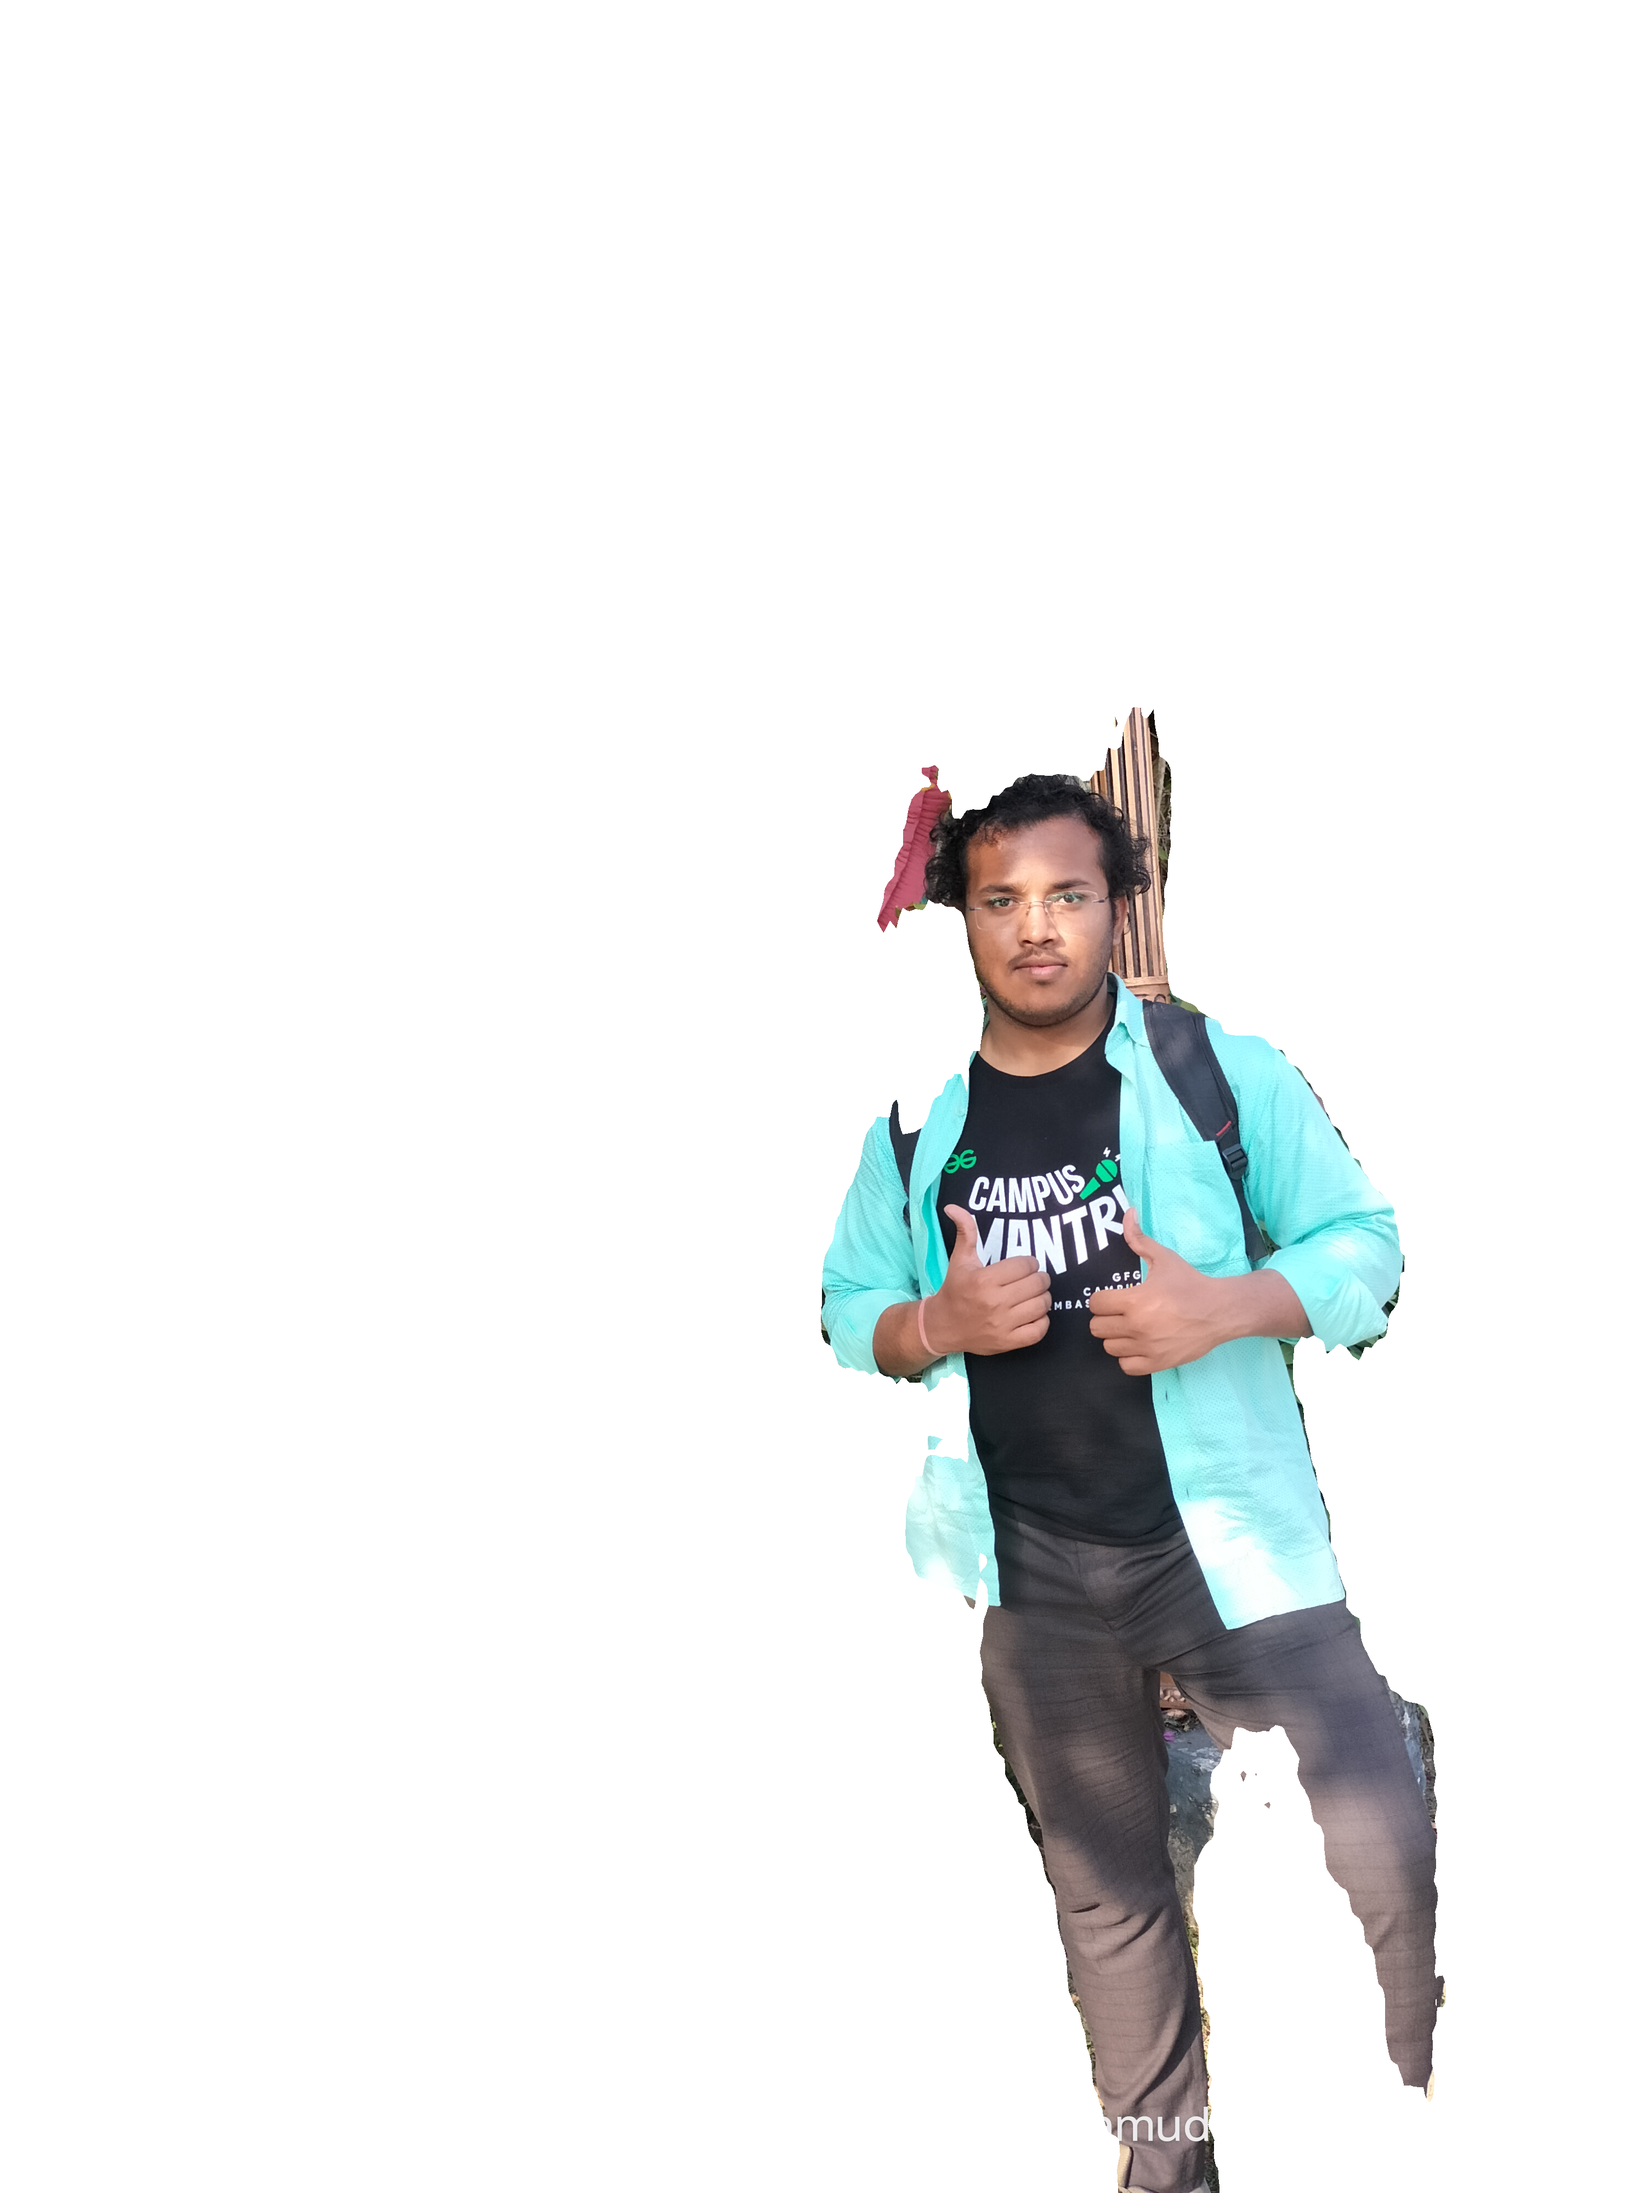
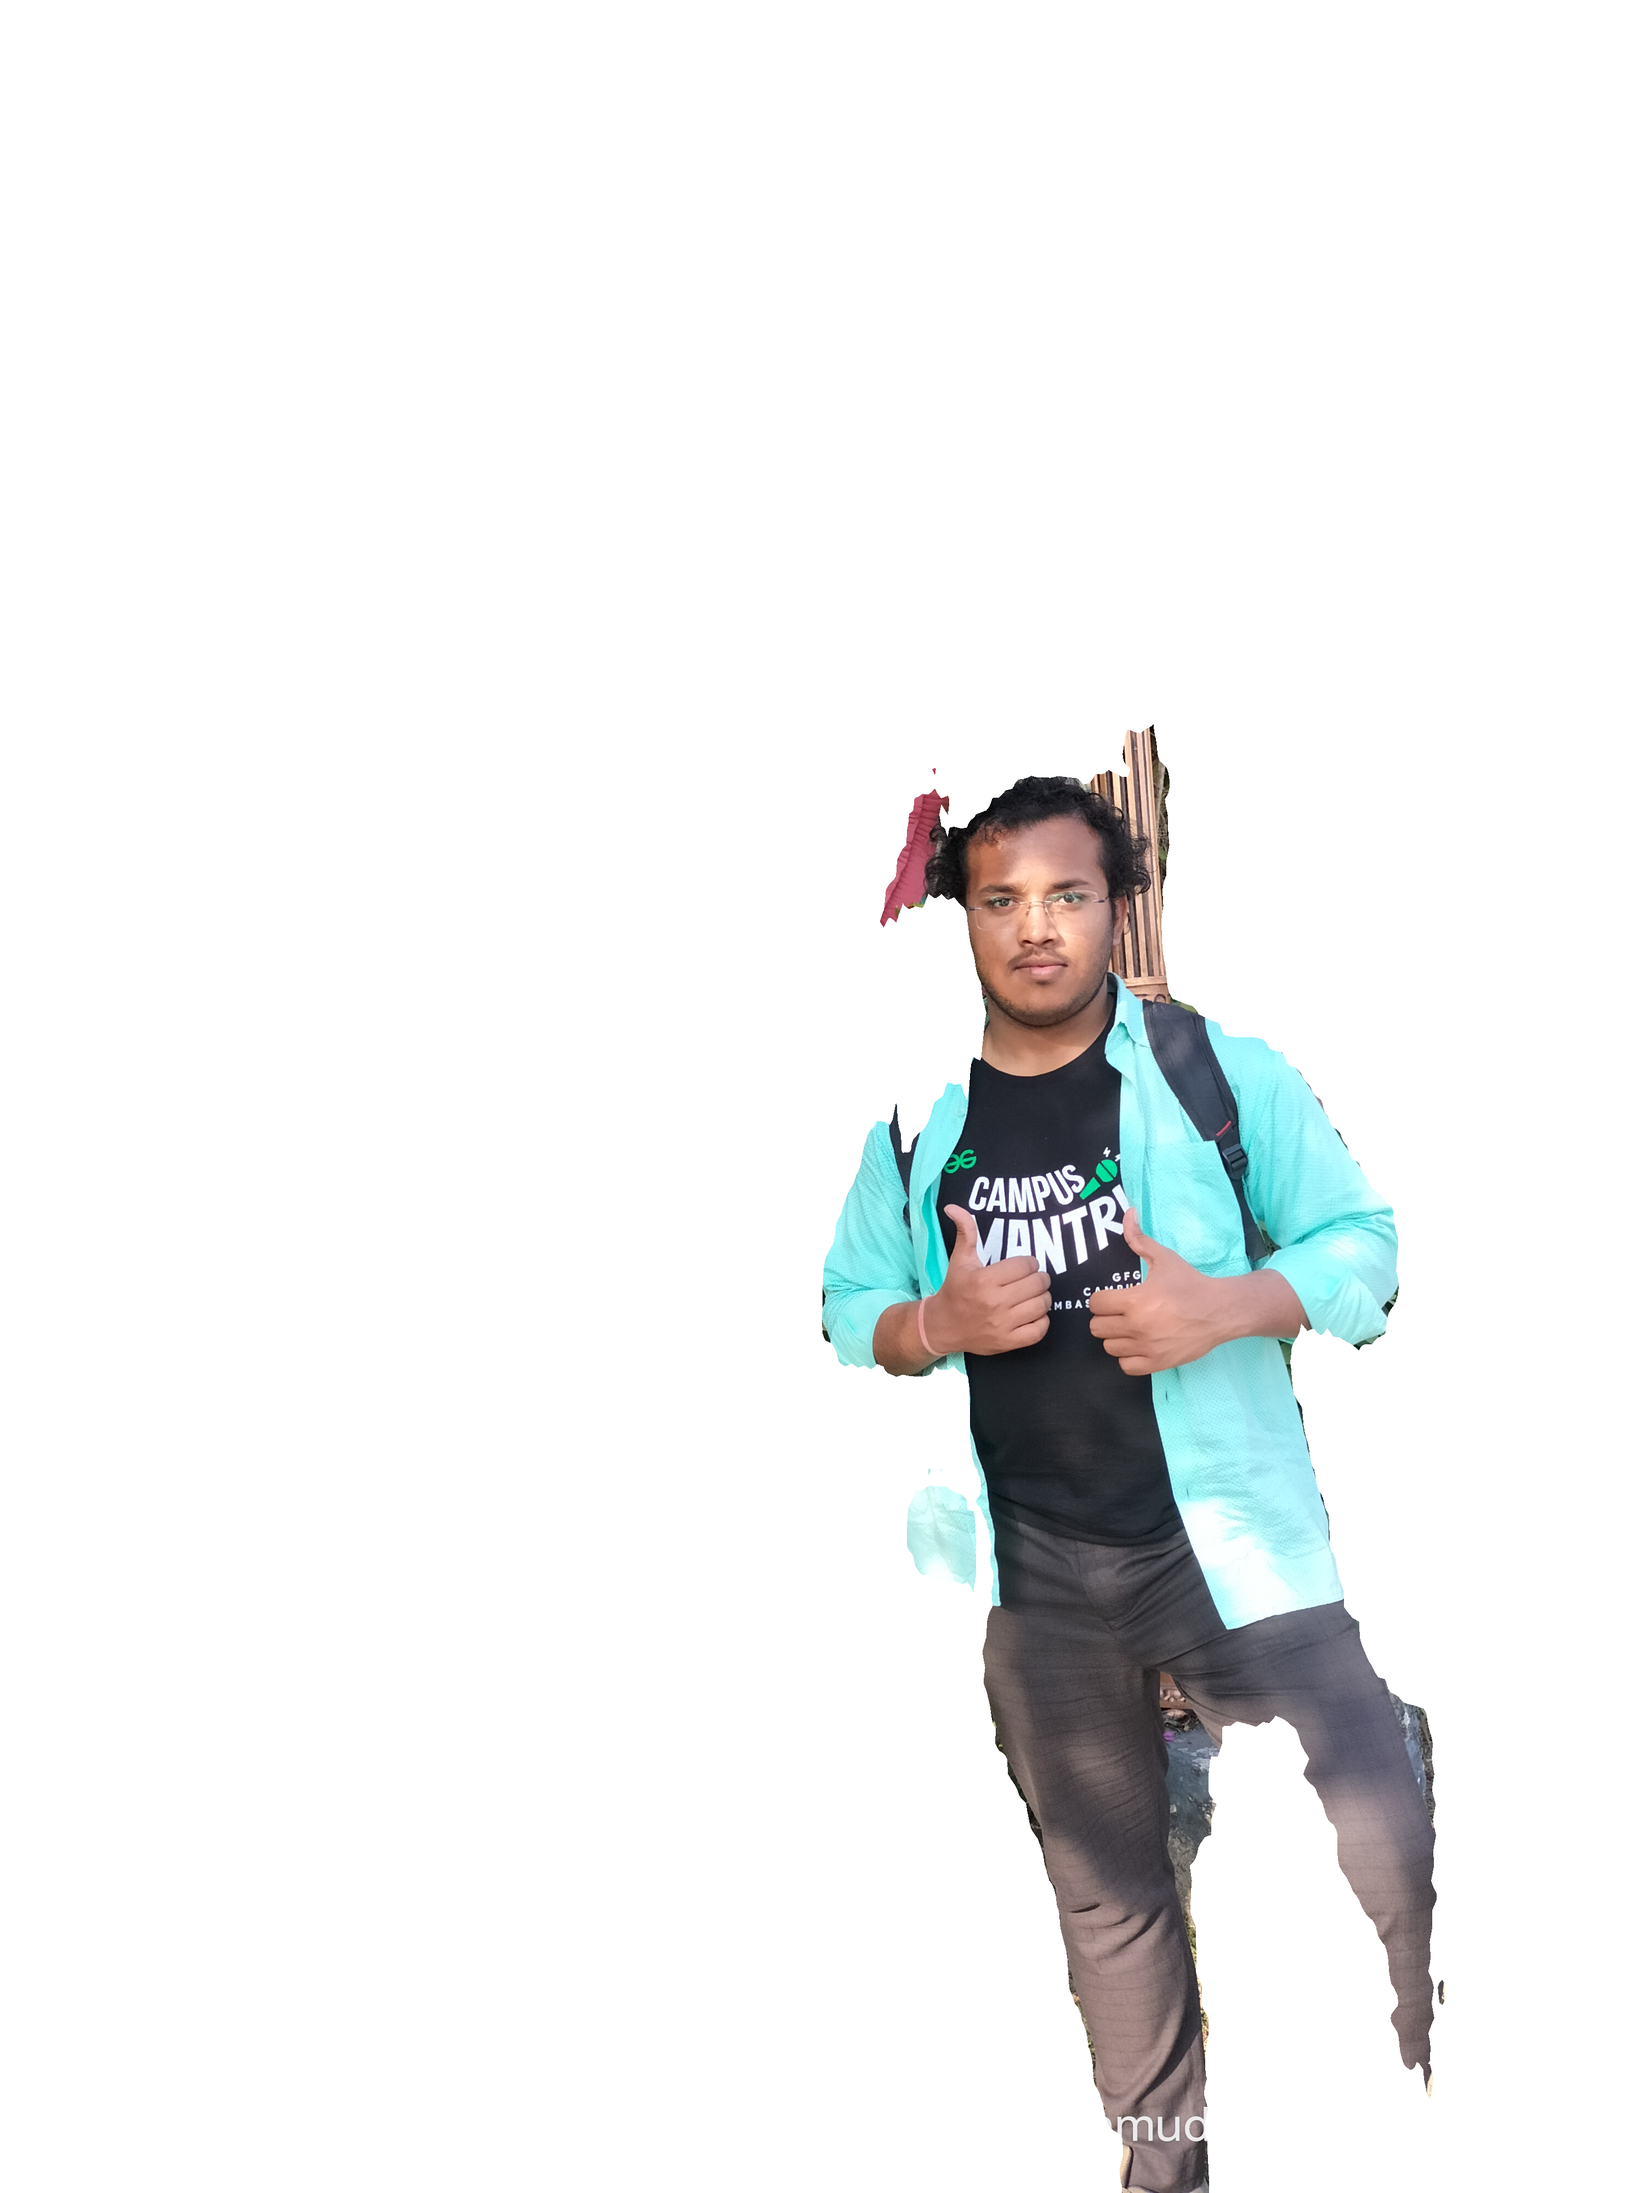
solve hybrid model and generate prominent image without background

diff --git a/main.py b/main.py
@@ -4,46 +4,56 @@ from PIL import Image, ImageFilter
 from utils.shadow_utils import generate_shadow
 from utils.lighting_utils import estimate_light_direction
 from utils.color_utils import harmonize_colors
-from models.segmentation.mediapipe_segmenter import remove_background_mediapipe
 import os
 
-# Step 1: Background removal
-raw_path = "assets/person/raw_person.jpg"
-no_bg_path = "assets/person/person_no_bg.png"
-remove_background_mediapipe(raw_path, no_bg_path)
+# Step 1: Load images
+bg_path = "assets/background/street_scene.jpg"
+person_path = "assets/person/person_no_bg.png"
+bg = Image.open(bg_path).convert("RGBA")
+person = Image.open(person_path).convert("RGBA")
+position = (250, 150)
 
-# Step 2: Load images
-position = (250, 100)
-bg = Image.open("assets/background/street_scene.jpg")
-person = Image.open(no_bg_path)
-
-# Step 3: Estimate lighting
+# Step 2: Estimate lighting direction
 light_dir = estimate_light_direction(bg)
 
-# Step 4: Generate shadow only (separate from person)
+# Step 3: Generate shadow from person
 shadow = generate_shadow(person, light_dir)
 
-# Step 5: Color harmonization (apply to full-opacity person only)
-def feather_edges(img, feather_radius=1):
-    alpha = img.split()[-1]
-    blurred_alpha = alpha.filter(ImageFilter.GaussianBlur(radius=feather_radius))
+# Step 4: Color harmonization (preserve alpha manually)
+def harmonize_colors_preserve_alpha(fg, bg):
+    alpha = fg.split()[-1]
+    fg_rgb = fg.convert("RGB")
+    bg_rgb = bg.convert("RGB").resize(fg.size)
+    
+    from skimage.exposure import match_histograms
+    import numpy as np
+    fg_np = np.array(fg_rgb)
+    bg_np = np.array(bg_rgb)
+    matched = match_histograms(fg_np, bg_np, channel_axis=-1)
+    
+    from PIL import Image
+    result = Image.fromarray(matched.astype('uint8')).convert("RGBA")
+    result.putalpha(alpha)  # reapply alpha
+    return result
 
-    # Restore opacity around central regions
-    boosted_alpha = blurred_alpha.point(lambda x: min(255, int(x * 2)))  # Sharper edges
-    img.putalpha(boosted_alpha)
+# Step 5: Feather edges slightly
+def feather_alpha(img, radius=1):
+    alpha = img.split()[-1]
+    blurred_alpha = alpha.filter(ImageFilter.GaussianBlur(radius))
+    enhanced_alpha = blurred_alpha.point(lambda p: min(255, int(p * 2)))  # reboost strength
+    img.putalpha(enhanced_alpha)
     return img
 
+# Apply harmonization and feathering
+harmonized = harmonize_colors_preserve_alpha(person, bg)
+harmonized = feather_alpha(harmonized)
 
-# Convert person to RGB before harmonization
-harmonized_person = harmonize_colors(person, bg)
-harmonized_person = feather_edges(harmonized_person)
+# Step 6: Composite on background
+composite = bg.copy()
+composite.paste(shadow, position, shadow)
+composite.paste(harmonized, position, harmonized)
 
-# Step 6: Paste shadow and person
-bg_composite = bg.copy()
-bg_composite.paste(shadow, position, shadow)
-bg_composite.paste(harmonized_person, position, harmonized_person)
-# Step 7: Save debug + final outputs
+# Step 7: Save output
 output_path = "outputs/final_composite.png"
-bg_composite.save(output_path)
-print(f"✅ Final photorealistic image saved to: {output_path}")
-print("Alpha extrema (person):", harmonized_person.split()[-1].getextrema())
+composite.save(output_path)
+print(f"✅ Final photorealistic image saved at: {output_path}")

diff --git a/models/segmentation/mediapipe_segmenter.py b/models/segmentation/mediapipe_segmenter.py
@@ -5,9 +5,9 @@ import numpy as np
 import os
 
 def remove_background_mediapipe(input_path, output_path):
-    if os.path.exists(output_path):
-        print("✅ Segmented image already exists.")
-        return
+    #if os.path.exists(output_path):
+    #    print("✅ Segmented image already exists.")
+    #    return
 
     mp_selfie_segmentation = mp.solutions.selfie_segmentation
     image = cv2.imread(input_path)
